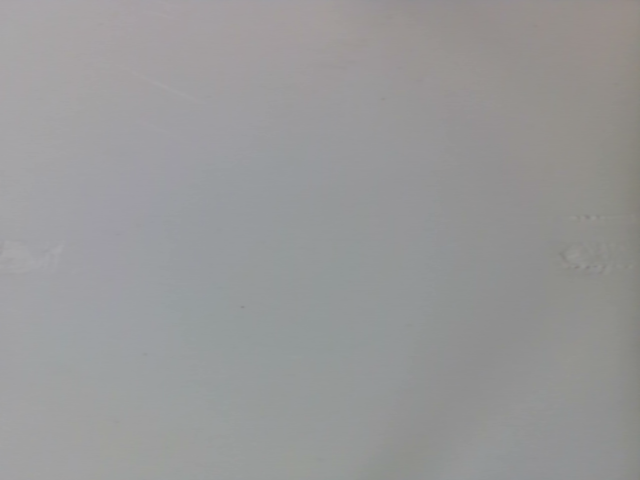
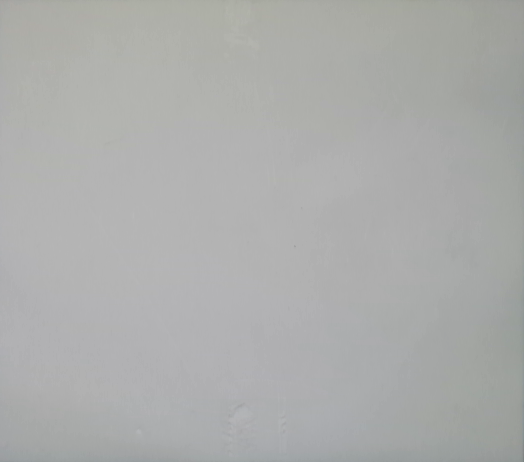
update floor texture and object color

diff --git a/Arrange_knolling_model/train_and_test/model_train.py b/Arrange_knolling_model/train_and_test/model_train.py
@@ -63,7 +63,7 @@ def main():
     config.model_params = num_params
 
     if config.pre_trained:
-        pre_name = 'rosy-morning-8'
+        pre_name = 'legendary-galaxy-31'
         PATH = 'data/%s/best_model.pt' % pre_name
         checkpoint = torch.load(PATH, map_location=device)
         model.load_state_dict(checkpoint)
@@ -89,10 +89,10 @@ def main():
         dataset_path = DATAROOT + 'num_%d_after_%d.txt' % (object_num, f)
         print('load data:', dataset_path)
         raw_data = np.loadtxt(dataset_path)[:config.DATA_CUT, :config.max_seq_length * info_per_object]
-        num_list = np.random.choice(np.arange(4, 11), len(raw_data))
-        mask = ~(np.arange(config.max_seq_length * info_per_object) < (num_list * info_per_object)[:, None])
+        # num_list = np.random.choice(np.arange(4, 11), len(raw_data))
+        # mask = ~(np.arange(config.max_seq_length * info_per_object) < (num_list * info_per_object)[:, None])
         raw_data = raw_data * SCALE_DATA + SHIFT_DATA
-        raw_data[mask] = 0 # this is the customized padding process
+        # raw_data[mask] = 0 # this is the customized padding process
 
         train_data = raw_data[:int(len(raw_data) * 0.8)]
         test_data = raw_data[int(len(raw_data) * 0.8):]

diff --git a/ASSET/urdf/visualize_urdf.py b/ASSET/urdf/visualize_urdf.py
@@ -119,7 +119,7 @@ class visualize_env():
             lineToXYZ=[self.x_low_obs - self.table_boundary, self.y_high_obs + self.table_boundary, self.z_low_obs])
 
         background = np.random.randint(1, 5)
-        textureId = p.loadTexture(self.urdf_path + f"img_{background}.png")
+        textureId = p.loadTexture(self.urdf_path + f"floor_{background}.png")
         p.changeVisualShape(self.baseid, -1, textureUniqueId=textureId, specularColor=[0, 0, 0])
 
         p.setGravity(0, 0, -10)
@@ -210,7 +210,7 @@ class visualize_env():
 
     def create_arm(self):
         self.arm_id = p.loadURDF(self.urdf_path + "robot_arm928/robot_arm.urdf",
-                                 basePosition=[-0.08, 0, 0.02], useFixedBase=True,
+                                 basePosition=[-0.08, 0, -0.01], useFixedBase=True,
                                  flags=p.URDF_USE_SELF_COLLISION or p.URDF_USE_SELF_COLLISION_INCLUDE_PARENT)
 
         p.changeDynamics(self.arm_id, 7, lateralFriction=self.para_dict['gripper_lateral_friction'],

diff --git a/Arrange_knolling_model/train_and_test/model_test.py b/Arrange_knolling_model/train_and_test/model_test.py
@@ -184,7 +184,7 @@ if __name__ == '__main__':
     if test_sweep_flag == False:
         runs = api.runs("knolling_sundry")
         # name = 'charmed-sweep-1'
-        name = 'rosy-morning-8'
+        name = 'legendary-galaxy-31'
         # name = 'floral-bush-179'
     else:
         sweep = api.sweep('knolling_tuning/qtgswbjw')
